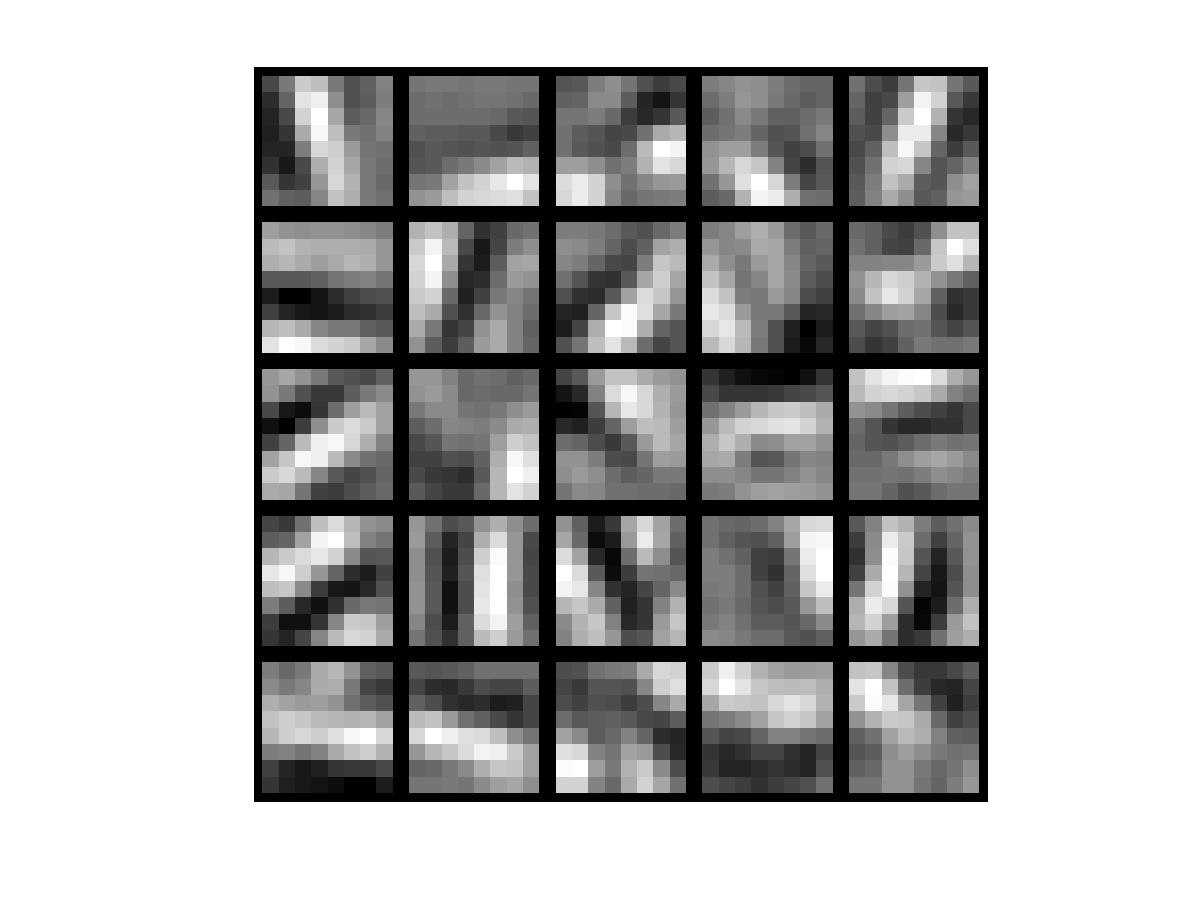
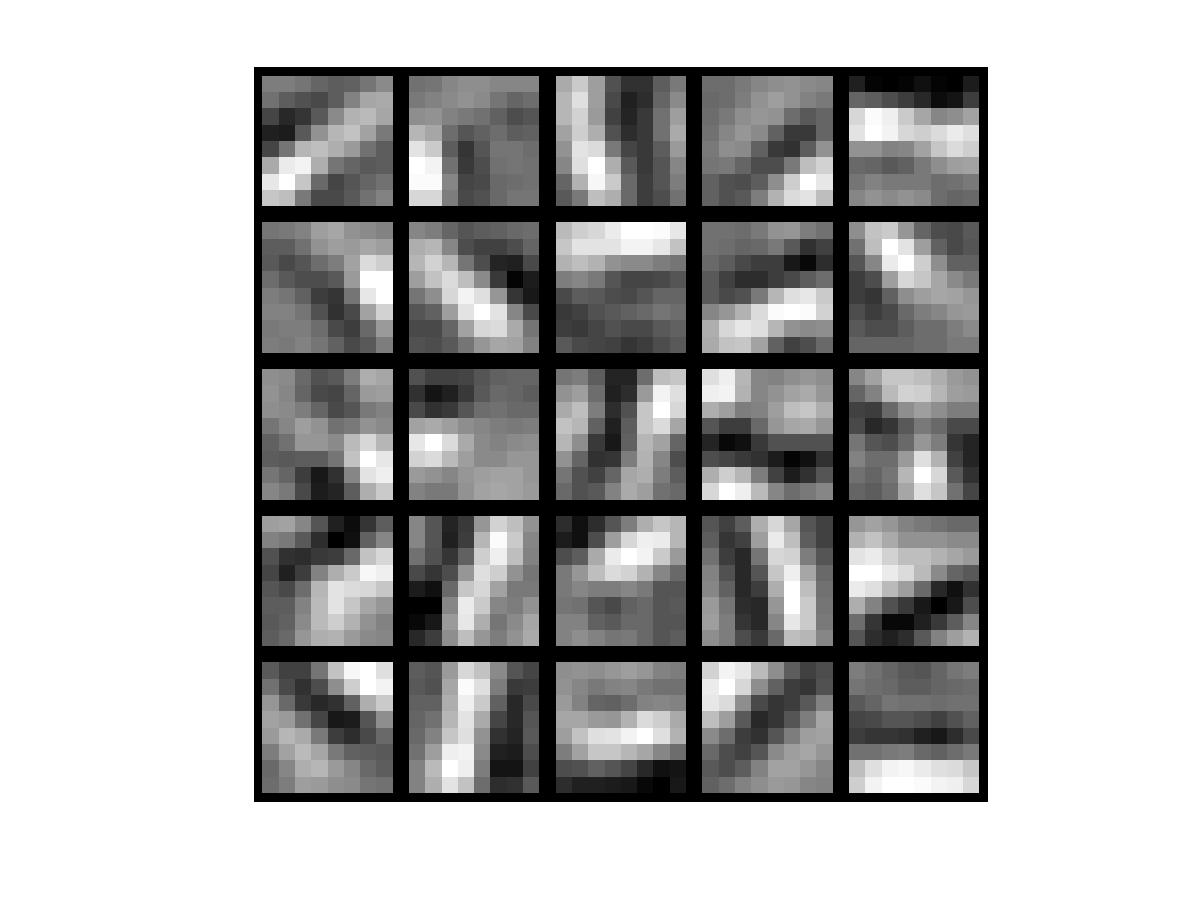
added visualizaton for 2nd layer

diff --git a/matlab/UFLDL/stackedae_exercise/stackedAEExercise_2.m b/matlab/UFLDL/stackedae_exercise/stackedAEExercise_2.m
@@ -125,7 +125,17 @@ sae2Theta = initializeParameters(hiddenSizeL2, hiddenSizeL1);
 
 % save ('result/sae2OptTheta.mat', 'sae2OptTheta');
 load('result/sae2OptTheta.mat');
+
+%visualize
+
 % -------------------------------------------------------------------------
+W1=reshape(sae1OptTheta(1:hiddenSizeL1*inputSize), hiddenSizeL1, inputSize);
+W2=reshape(sae2OptTheta(1:hiddenSizeL2*hiddenSizeL1), hiddenSizeL2, hiddenSizeL1);
+B1=sae1OptTheta(2*hiddenSizeL1*inputSize+1:2*hiddenSizeL1*inputSize+hiddenSizeL1);
+figure;
+display_network(W1');
+figure;
+display_network(W1'*W2);
 
 
 %%======================================================================
